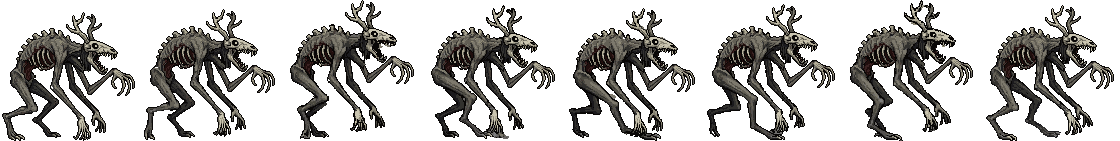
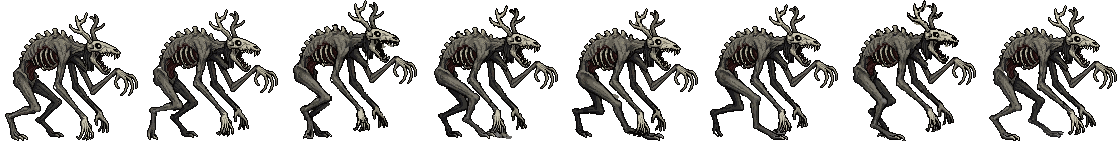
Elder Gaunt walk: centre on the still's head position so the body does not jump between pictures
Claude-Session: https://claude.ai/code/session_01Jpd5tdDJTR7BVueAYV1KDM

diff --git a/ArtSource/gaunt_elder3_walk.py b/ArtSource/gaunt_elder3_walk.py
@@ -38,10 +38,12 @@ def build(sheet_path):
         cv = Image.new('RGBA', (FW + 40, FW), (0, 0, 0, 0)); cv.alpha_composite(arm, (dx, dy)); cv.alpha_composite(f)     # the arm is BEHIND the body
         out.append(cv); info.append((round(sc, 2), dx, dy))
     return out, info
-def cells(fs):
-    bb = [f.getbbox() for f in fs]; y0 = min(b[1] for b in bb); y1 = max(b[3] for b in bb); xc = int(np.mean([(b[0] + b[2]) / 2 for b in bb])); half = max(max(abs(b[0] - xc), abs(b[2] - xc)) for b in bb) + 2
+STILL_HEAD = -18          # where the still puts the skull template's left edge, in px from its cell's centre column (the walk is centred so the body does not jump when the game switches pictures)
+def cells(fs, heads):
+    bb = [f.getbbox() for f in fs]; y0 = min(b[1] for b in bb); y1 = max(b[3] for b in bb)
+    xc = int(round(np.mean(heads) - STILL_HEAD)); half = max(max(abs(b[0] - xc), abs(b[2] - xc)) for b in bb) + 2
     return [f.crop((xc - half, y0, xc + half, y1)) for f in fs]
 if __name__ == '__main__':
     fs, info = build(sys.argv[1]); print('head match (iou, dx, dy):', info)
-    cs = cells(fs); W, H = cs[0].size; st = X.strip(cs); od = X.OUT; os.makedirs(od, exist_ok=True)
+    cs = cells(fs, [50 + i[1] for i in info]); W, H = cs[0].size; st = X.strip(cs); od = X.OUT; os.makedirs(od, exist_ok=True)
     st.save(os.path.join(od, 'elder_gaunt_walk_strip.png')); X.gif(cs, [110] * 8, os.path.join(X.PRE, 'elder3_walk.gif')); X.sheet(cs, os.path.join(X.PRE, 'elder3_walk_frames.png')); print('walk cell', W, 'x', H)
